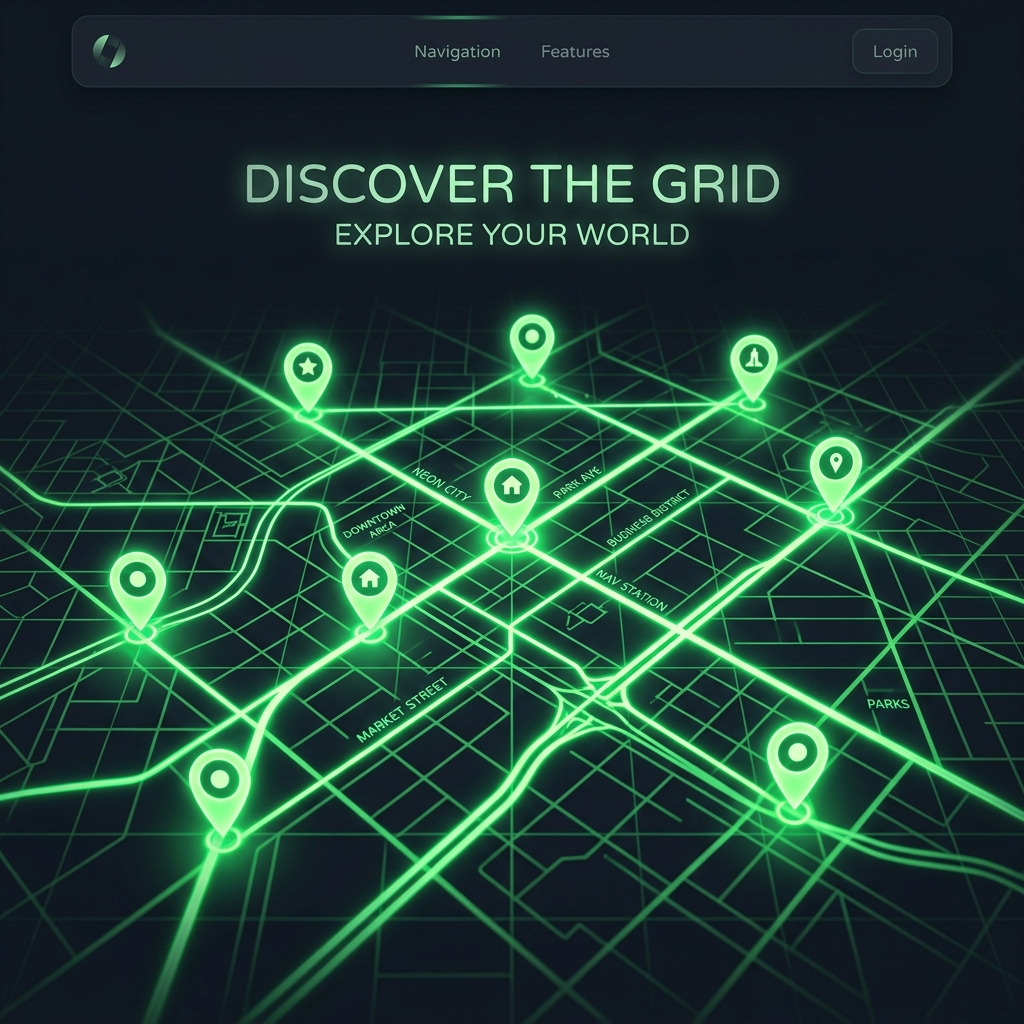
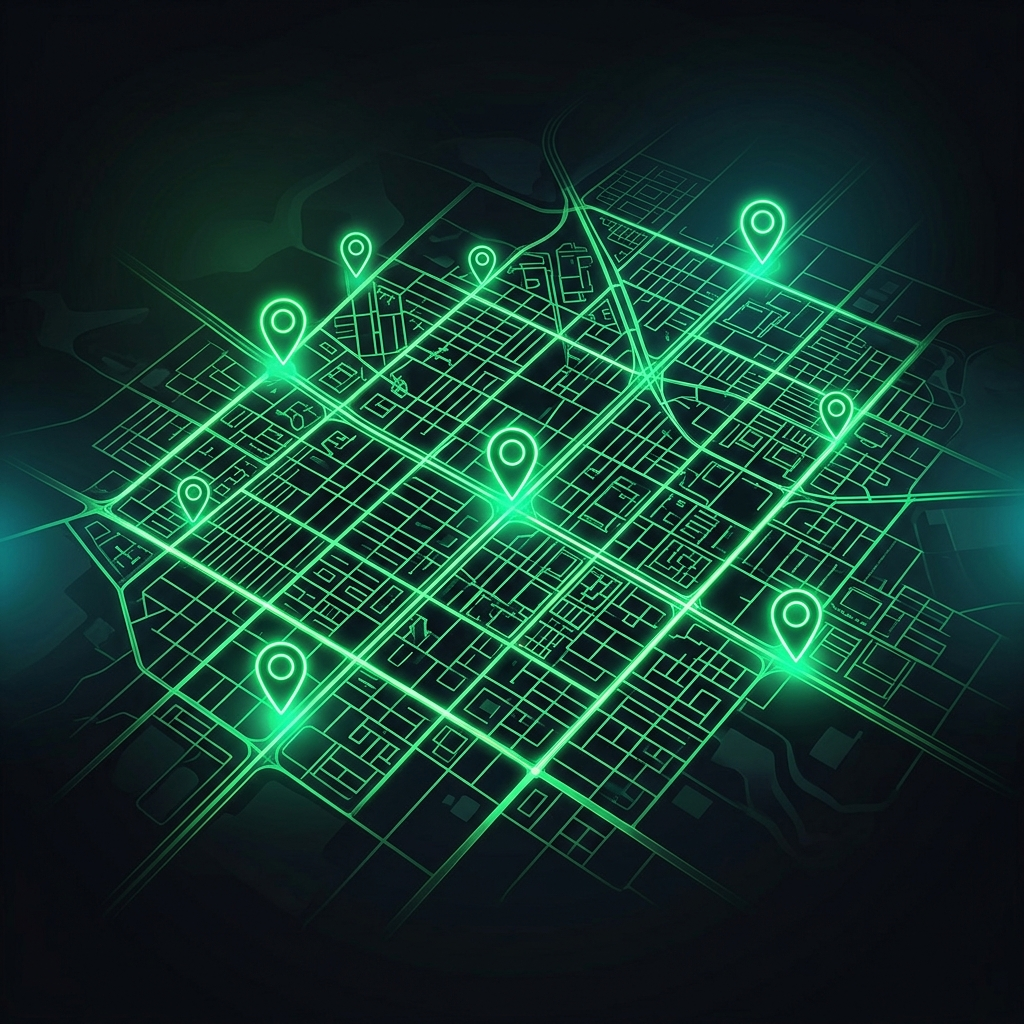
fix(landing): remove background watermark, resolve card overlap on worker head, and improve container sizing and spacing

diff --git a/server/public/style.css b/server/public/style.css
@@ -1622,15 +1622,27 @@ body {
 }
 
 /* Benefits Showcase Container */
+.benefits-image-column {
+  position: relative;
+}
+
 .mockup-showcase-container {
   position: relative;
   display: flex;
   justify-content: center;
   align-items: center;
-  height: 440px;
   width: 100%;
-  max-width: 480px;
   margin: 0 auto;
+}
+
+.showcase-prestadores {
+  max-width: 540px;
+  height: 520px;
+}
+
+.showcase-comercios {
+  max-width: 500px;
+  height: 440px;
 }
 
 .glowing-backdrop-green {
@@ -2313,7 +2325,8 @@ body {
   
   .mockup-showcase-container {
     flex-direction: column;
-    height: auto;
+    height: auto !important;
+    max-width: 100% !important;
     gap: 20px;
     padding: 24px 0;
   }
@@ -2846,7 +2859,7 @@ body {
 /* Upgraded Provider Section Styles */
 .provider-section-with-bg {
   position: relative;
-  background-image: linear-gradient(to bottom, rgba(8, 8, 8, 0.95), rgba(8, 8, 8, 0.95)), url('/assets/images/neon_map_bg.png');
+  background-image: linear-gradient(to bottom, rgba(8, 8, 8, 0.95), rgba(8, 8, 8, 0.95)), url('/assets/images/neon_map_bg.png?v=3');
   background-size: cover;
   background-position: center;
   background-repeat: no-repeat;
@@ -3030,8 +3043,8 @@ body {
 /* Floating Notification Card */
 .floating-client-notification {
   position: absolute;
-  top: 30px;
-  right: -25px;
+  top: -10px;
+  right: -80px;
   width: 240px;
   background-color: rgba(18, 18, 20, 0.95);
   backdrop-filter: blur(16px);

diff --git a/server/public/index.html b/server/public/index.html
@@ -262,7 +262,7 @@
           <div class="neon-ring ring-2"></div>
           <div class="neon-ring ring-3"></div>
         </div>
-        <div class="mockup-showcase-container">
+        <div class="mockup-showcase-container showcase-prestadores">
           <!-- Combined Phone + Worker High-Fidelity Asset -->
           <img src="/assets/images/xj/asset_prestador_combined.png" class="combined-provider-image" alt="Prestador de Serviço">
           
@@ -344,7 +344,7 @@
     <div class="container grid-2-align-center reverse-mobile">
       <div class="benefits-image-column">
         <div class="glowing-backdrop-green"></div>
-        <div class="mockup-showcase-container">
+        <div class="mockup-showcase-container showcase-comercios">
           <!-- Pizza image overlay -->
           <img src="/assets/images/xj/asset_pizzas.png" class="pizza-image-overlay" alt="Pizza Deliciosa">
           
